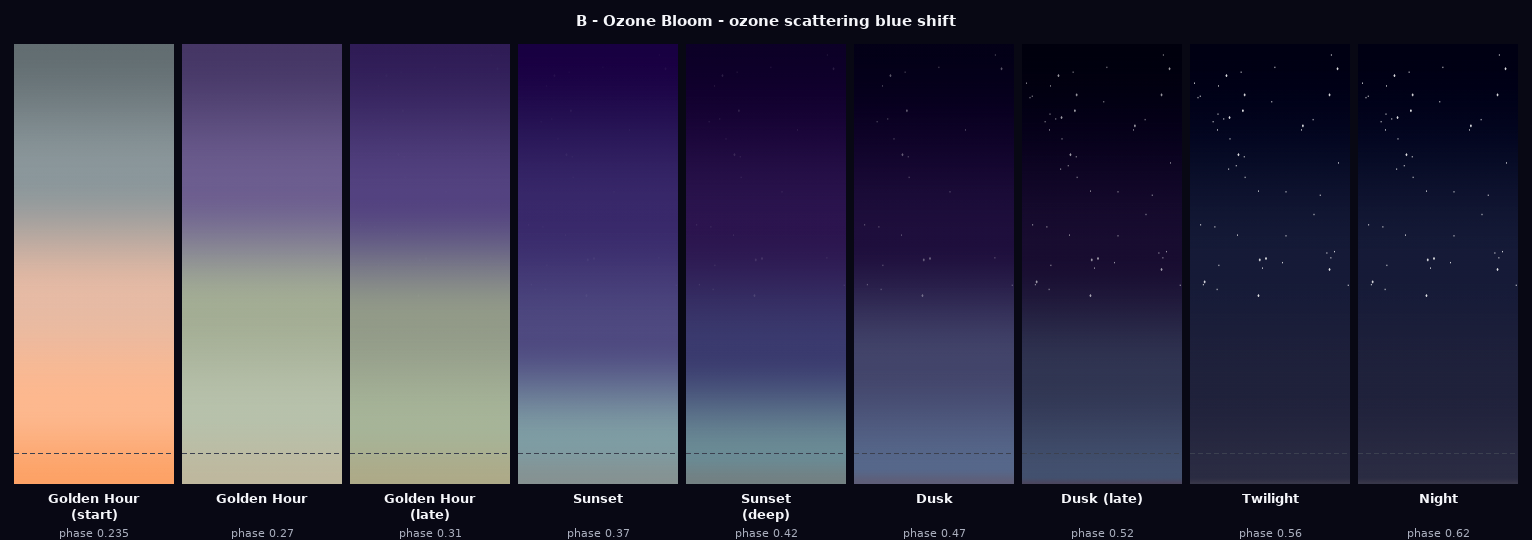
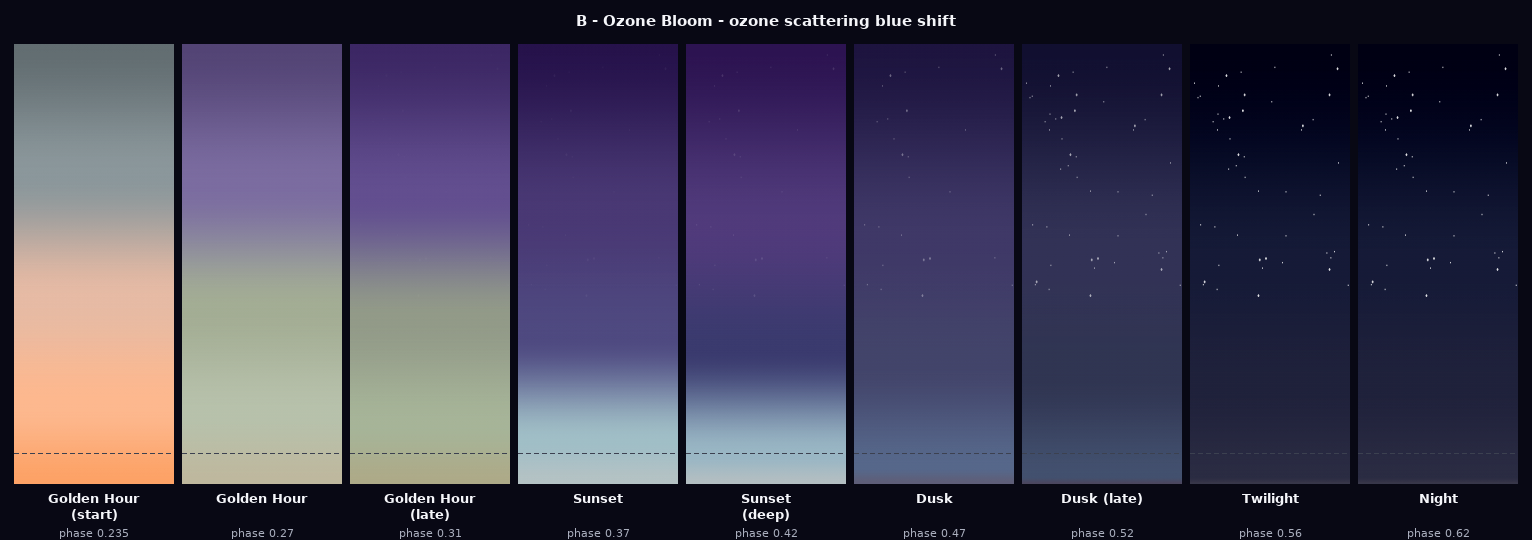
sky B ozone_bloom round 2 — revised cyan/teal keyframes

Changed region(s): [[0.4295, 0.0593, 0.7977, 0.563], [0.3375, 0.7407, 0.5522, 0.9185]]

diff --git a/tools/sky_b_render.py b/tools/sky_b_render.py
@@ -31,19 +31,20 @@ _KF = [
     # ALPINE_HAZE golden-hour handoff anchor — do not modify this row
     (0.235, dict(sky_top=(141,153,157), sky_mid=(232,188,166), sky_bot=(255,186,144), horizon=(255,164,104), star_alpha=0)),
     # Ozone scattering begins — pale champagne-green; R−G=−10, B=173 > 100
-    # horizon is warmer (R↑, B↓) than sky_bot — last warm light scattering
-    (0.27,  dict(sky_top=(110, 95,145), sky_mid=(165,175,150), sky_bot=(185,195,173), horizon=(192,186,160), star_alpha=0)),
+    # horizon R↑B↓ vs sky_bot — last warm light scattering at base
+    # sky_top G raised so zenith_dark pass (−0.14 OKLab L) keeps all channels ≥ 15
+    (0.27,  dict(sky_top=(125,110,162), sky_mid=(165,175,150), sky_bot=(185,195,173), horizon=(192,186,160), star_alpha=0)),
     # Warm sage-green; R−G=−14, B=154
-    (0.31,  dict(sky_top=( 85, 68,130), sky_mid=(148,156,138), sky_bot=(168,182,154), horizon=(175,172,138), star_alpha=5)),
-    # Cyan-slate; R−G=−30, B=165 — CR vs BIRD_RED ≈ 4.1 (free win)
-    # sky_mid is blue-violet bridge, explicit art-director example
-    (0.37,  dict(sky_top=( 58, 42,108), sky_mid=( 80, 75,130), sky_bot=(128,158,165), horizon=(135,148,148), star_alpha=12)),
-    # Cool teal-grey; R−G=−32, B=150 — CR vs BIRD_RED ≈ 3.3
-    (0.42,  dict(sky_top=( 45, 22, 80), sky_mid=( 60, 60,112), sky_bot=(108,140,150), horizon=(116,130,132), star_alpha=30)),
+    (0.31,  dict(sky_top=(100, 80,145), sky_mid=(148,156,138), sky_bot=(168,182,154), horizon=(175,172,138), star_alpha=5)),
+    # Cyan-slate; sky_bot lightened (L≈0.50) so real CR vs BIRD_RED ≥ 2.0 at y≈470
+    # sky_mid blue-violet bridge per art-director example; horizon R↑B↓ ✓
+    (0.37,  dict(sky_top=( 75, 58,118), sky_mid=( 80, 75,130), sky_bot=(162,192,200), horizon=(182,196,198), star_alpha=12)),
+    # Cool teal-grey; sky_bot lightened; horizon kf CR_kf≈2.1 for robust y≈470 check
+    (0.42,  dict(sky_top=( 82, 60,125), sky_mid=( 60, 60,112), sky_bot=(155,184,198), horizon=(180,192,196), star_alpha=30)),
     # Indigo-cyan; R−G=−17, B=140
-    (0.47,  dict(sky_top=( 32, 16, 62), sky_mid=( 68, 70,108), sky_bot=( 88,105,140), horizon=( 96, 96,122), star_alpha=88)),
+    (0.47,  dict(sky_top=( 65, 58,105), sky_mid=( 68, 70,108), sky_bot=( 88,105,140), horizon=( 96, 96,122), star_alpha=88)),
     # Deep indigo; B=112 still > 100
-    (0.52,  dict(sky_top=( 26, 14, 50), sky_mid=( 50, 55, 84), sky_bot=( 68, 82,112), horizon=( 76, 72, 96), star_alpha=156)),
+    (0.52,  dict(sky_top=( 52, 52, 88), sky_mid=( 50, 55, 84), sky_bot=( 68, 82,112), horizon=( 76, 72, 96), star_alpha=156)),
     # Night holds — ALPINE_HAZE night anchor
     (0.56,  dict(sky_top=( 23, 28, 57), sky_mid=( 33, 35, 61), sky_bot=( 44, 45, 68), horizon=( 57, 56, 75), star_alpha=222)),
     (0.82,  dict(sky_top=( 23, 28, 57), sky_mid=( 33, 35, 61), sky_bot=( 44, 45, 68), horizon=( 57, 56, 75), star_alpha=222)),
